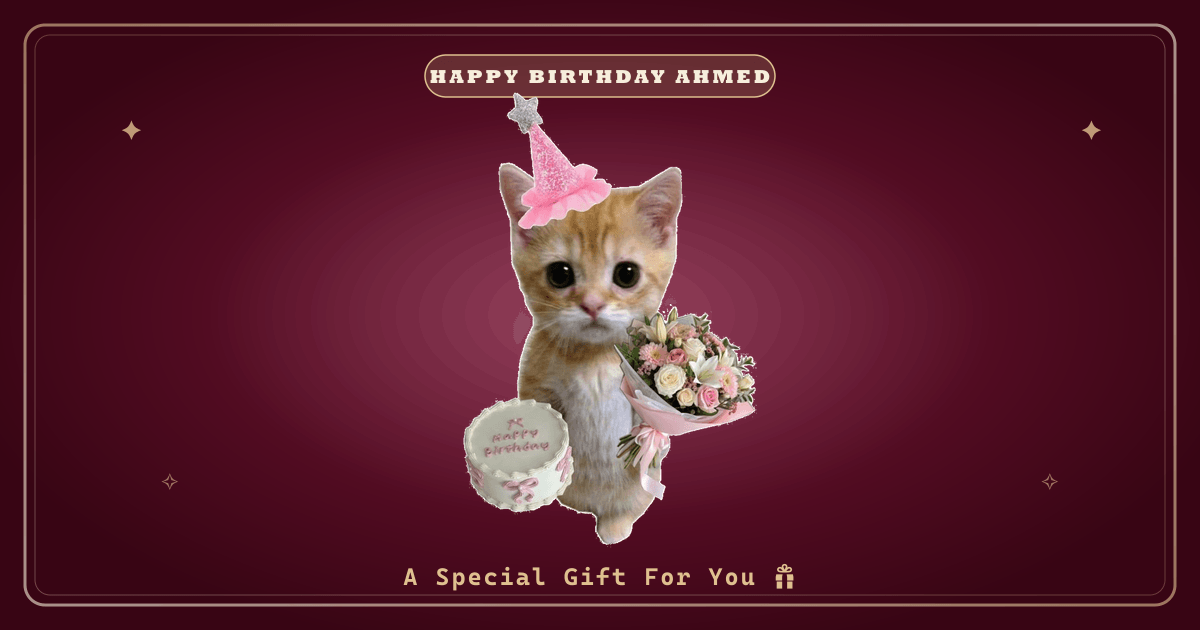
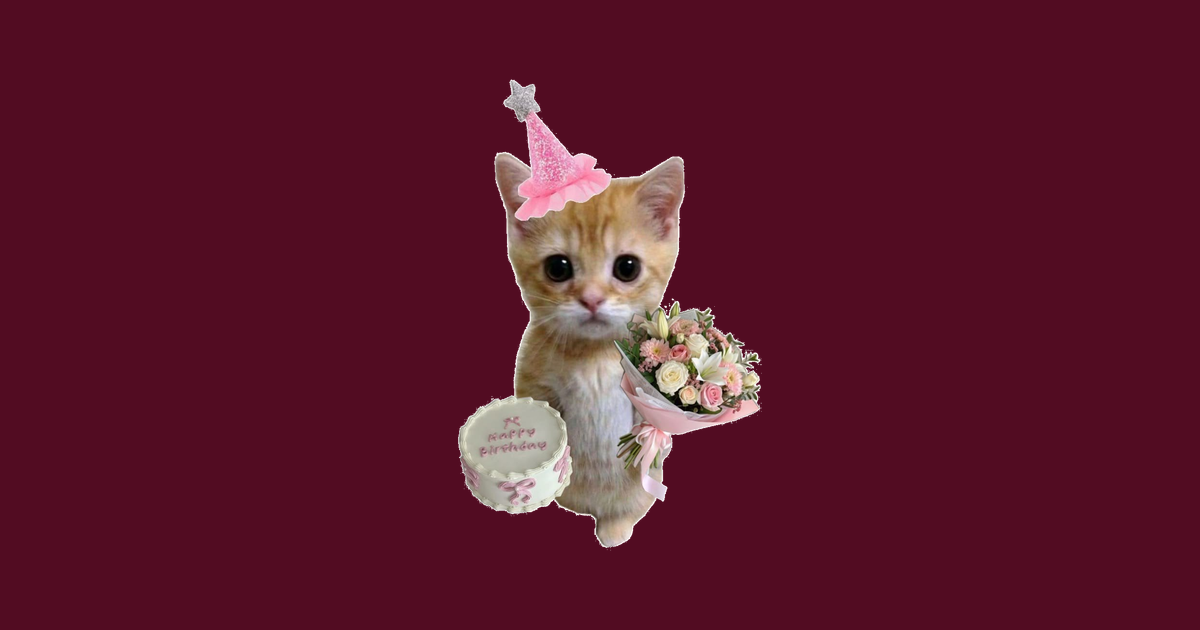
edit pic

Changed region(s): [[0.0, 0.0, 1.0, 1.0], [0.0925, 0.181, 0.1233, 0.2111]]

diff --git a/app/page.tsx b/app/page.tsx
@@ -4,11 +4,11 @@ import GiftClient from '@/components/GiftClient'
 
 export const metadata: Metadata = {
   metadataBase: new URL('https://agiftforyouuu.vercel.app'),
-  title: 'Happy Birthday Ahmed! 🎂',
-  description: 'A special birthday message for Ahmed 🤍',
+  title: 'Happy Birthday aya! 🎂',
+  description: 'A special birthday message for aya 🤍',
   openGraph: {
-    title: 'Happy Birthday Ahmed! 🎂',
-    description: 'A special birthday message for Ahmed 🤍',
+    title: 'Happy Birthday aya! 🎂',
+    description: 'A special birthday message for aya 🤍',
     url: 'https://agiftforyouuu.vercel.app',
     siteName: 'Birthday Gift',
     type: 'website',
@@ -19,14 +19,14 @@ export const metadata: Metadata = {
         width: 1200,
         height: 630,
         type: 'image/jpeg',
-        alt: 'Happy Birthday Ahmed Cat 🐱🎂',
+        alt: 'Happy Birthday aya Cat 🐱🎂',
       },
     ],
   },
   twitter: {
     card: 'summary_large_image',
-    title: 'Happy Birthday Ahmed! 🎂',
-    description: 'A special birthday message for Ahmed 🤍',
+    title: 'Happy Birthday aya! 🎂',
+    description: 'A special birthday message for aya 🤍',
     images: ['https://agiftforyouuu.vercel.app/images/og-cat.jpg'],
   },
 }
